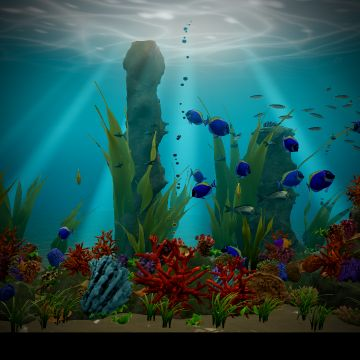
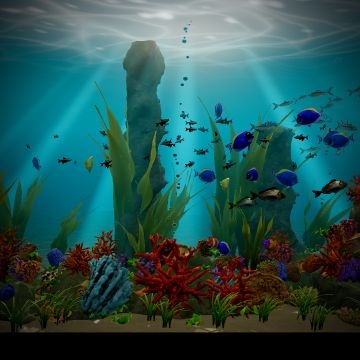
feat(swimming): clownfish dive into their anemone and live in it (I4)
The hover style takes `dive`: a fish with a home goes in among the
tentacles for `inSeconds`, `depthBodyLengths` below the top, turning
slowly to rub along them, then comes out to look around for
`outSeconds`; startled, it hides that deep. Over a host, the roam
shrinks with the square of the fish's size next to its kind (the swim
context's new `size`), so the larger of a pair keeps by the anemone.
The clownfish dive, and inspect and peck less (0.2 each), so living in
the anemone is what they mostly do. The tentacles hide them partly by
the depth test alone.

The Hero's baseline and pictures change: its clownfish now draw from the
shared random sequence differently, which moves every fish.

diff --git a/src/sim/behaviors/hover.ts b/src/sim/behaviors/hover.ts
@@ -23,16 +23,49 @@ export const NESTLE_BODY_LENGTHS = 0.3;
  * across or in height: drifting at hovering speed it could hardly climb or sink.
  */
 const COMMUTE_ROAMS = 2;
+/** Among the tentacles a fish turns this often, seconds, by up to this angle, radians… */
+const RUB_TURN_SECONDS: readonly [number, number] = [0.4, 1.2];
+const RUB_TURN_ANGLE = 1.4;
+/** …at this share of its hovering speed, never straying beyond this many body lengths. */
+const RUB_SPEED = 0.6;
+const RUB_REACH_BODY_LENGTHS = 0.6;
 const HOVERING = 0;
 const COMMUTING = 1;
+const DIVING = 2;
 
 type Params = SwimParams<"hover">;
 
-/** Where a fish keeping station over a host nestles down into it, written into `out`. */
-export function nestlePoint(state: SwimState, length: number, out: Vector3): Vector3 {
-  return out
-    .copy(state.home)
-    .setY(state.home.y - (ABOVE_HOST_BODY_LENGTHS + NESTLE_BODY_LENGTHS) * length);
+/** How far below its station a fish goes into its host, m: as deep as it dives, if it does. */
+function depthIntoHost(length: number, params?: Pick<Params, "dive">): number {
+  return (
+    (ABOVE_HOST_BODY_LENGTHS + (params?.dive?.depthBodyLengths ?? NESTLE_BODY_LENGTHS)) * length
+  );
+}
+
+/**
+ * Where a fish keeping station over a host hides in it, written into `out`:
+ * nestled into its top, or as deep as it dives when its style dives.
+ */
+export function nestlePoint(
+  state: SwimState,
+  length: number,
+  out: Vector3,
+  params?: Pick<Params, "dive">,
+): Vector3 {
+  return out.copy(state.home).setY(state.home.y - depthIntoHost(length, params));
+}
+
+/**
+ * How far a fish strays from its home before turning back, m. Over a host
+ * the larger fish of a pair keeps closer to it, as the female clownfish
+ * does: the roam shrinks with the square of its size next to its kind.
+ */
+export function hostRoam(
+  params: Pick<Params, "roamBodyLengths">,
+  length: number,
+  size: number,
+): number {
+  return (params.roamBodyLengths * length) / (size * size);
 }
 
 /** Settles over the nearest place tagged `home`, or where the fish is. */
@@ -55,6 +88,45 @@ function driftAroundHome(state: SwimState, context: SwimContext, roam: number): 
 }
 
 /**
+ * The dive of a fish into its host and out again; returns true while it is
+ * among the tentacles, where it has set its own wishes.
+ */
+function dive(
+  state: SwimState,
+  params: Params,
+  context: SwimContext,
+  deltaSeconds: number,
+): boolean {
+  const { dive: timing } = params;
+  if (timing === undefined) return false;
+  const { rng, position, length } = context;
+  state.heightTimer -= deltaSeconds;
+  if (state.phase !== DIVING) {
+    if (state.heightTimer > 0) return false;
+    state.phase = DIVING;
+    state.heightTimer = rng.range(timing.inSeconds[0], timing.inSeconds[1]);
+    state.height = state.home.y - depthIntoHost(length, params);
+    state.timer = 0;
+  } else if (state.heightTimer <= 0) {
+    // Out again to look around, just above the host.
+    state.phase = HOVERING;
+    state.heightTimer = rng.range(timing.outSeconds[0], timing.outSeconds[1]);
+    state.height = state.home.y;
+    return false;
+  }
+  state.speed = params.speed * RUB_SPEED;
+  state.timer -= deltaSeconds;
+  const away = Math.hypot(position.x - state.home.x, position.z - state.home.z);
+  if (away > length * RUB_REACH_BODY_LENGTHS) {
+    state.yaw = yawTowards(context, state.home.x, state.home.z);
+  } else if (state.timer <= 0) {
+    state.timer = rng.range(RUB_TURN_SECONDS[0], RUB_TURN_SECONDS[1]);
+    state.yaw += drawSide(context) * rng.range(SMALLEST_TURN, RUB_TURN_ANGLE);
+  }
+  return true;
+}
+
+/**
  * Keeps station: drifts slowly, turns on the spot, comes back when it strays.
  * With a `home` tag it keeps station over a place, like a clownfish over its
  * anemone.
@@ -72,7 +144,9 @@ export const hoverStyle: SwimStyle<"hover"> = {
   },
   step(state, params, context, deltaSeconds) {
     const { position, rng } = context;
-    const roam = params.roamBodyLengths * context.length;
+    const roam = state.anchored
+      ? hostRoam(params, context.length, context.size)
+      : params.roamBodyLengths * context.length;
     const away = Math.hypot(position.x - state.home.x, position.z - state.home.z);
     const offHeight = Math.abs(position.y - state.home.y);
     if (away > roam * COMMUTE_ROAMS || offHeight > roam * COMMUTE_ROAMS) {
@@ -91,6 +165,9 @@ export const hoverStyle: SwimStyle<"hover"> = {
       state.thrust = HOVER_THRUST;
       state.timer = 0;
     }
+    if (state.anchored && params.dive !== undefined && dive(state, params, context, deltaSeconds)) {
+      return;
+    }
     state.timer -= deltaSeconds;
     const homeward = yawTowards(context, state.home.x, state.home.z);
     // Out of its spot and still drifting away: turn back now.
@@ -104,6 +181,8 @@ export const hoverStyle: SwimStyle<"hover"> = {
           : state.yaw + drawSide(context) * rng.range(SMALLEST_TURN, params.turnAngle);
     }
     jitterYaw(state, context, HOVER_JITTER, deltaSeconds);
+    // A fish that dives keeps its height for the dives.
+    if (state.anchored && params.dive !== undefined) return;
     state.heightTimer -= deltaSeconds;
     if (state.heightTimer <= 0) {
       state.heightTimer = drawDuration(context, params.heightChangeSeconds);

diff --git a/src/sim/behaviors/hover.test.ts b/src/sim/behaviors/hover.test.ts
@@ -1,6 +1,7 @@
+import { Vector3 } from "three";
 import { describe, expect, it } from "vitest";
 import { collect, headingGap, startStyle } from "./harness";
-import { hoverStyle } from "./hover";
+import { hostRoam, hoverStyle, nestlePoint } from "./hover";
 
 describe("hover", () => {
   it("drifts far slower than cruise speed", () => {
@@ -134,5 +135,60 @@ describe("nestling", () => {
     const heights = collect(hosted, 60, (state) => state.height);
 
     expect(Math.min(...heights)).toBeLessThan(anemone.height);
+  });
+});
+
+describe("diving into the host", () => {
+  const anemone = { x: 0, z: -1, height: 0.2, tags: ["anemone"] };
+  const dive = {
+    inSeconds: [2, 2] as [number, number],
+    outSeconds: [2, 2] as [number, number],
+    depthBodyLengths: 0.6,
+  };
+
+  it("dives in among the tentacles of its host, below its top", () => {
+    const hosted = startStyle(hoverStyle, { home: "anemone", dive }, 1, [anemone]);
+
+    const heights = collect(hosted, 20, (state) => state.height);
+
+    expect(Math.min(...heights)).toBeLessThan(anemone.height - hosted.context.length * 0.3);
+  });
+
+  it("comes out again to keep station above its host", () => {
+    const hosted = startStyle(hoverStyle, { home: "anemone", dive }, 1, [anemone]);
+
+    const heights = collect(hosted, 20, (state) => state.height);
+
+    expect(Math.max(...heights)).toBeGreaterThan(anemone.height);
+  });
+
+  it("moves slowly while among the tentacles, rubbing along them", () => {
+    const hosted = startStyle(hoverStyle, { home: "anemone", dive }, 1, [anemone]);
+    const speeds: number[] = [];
+
+    hosted.run(20, (state) => {
+      if (state.height < anemone.height) speeds.push(state.speed);
+    });
+
+    expect(Math.max(...speeds)).toBeLessThanOrEqual(hosted.params.speed);
+  });
+
+  it("hides deep among the tentacles when startled", () => {
+    const hosted = startStyle(hoverStyle, { home: "anemone", dive }, 1, [anemone]);
+    const refuge = nestlePoint(hosted.state, hosted.context.length, new Vector3(), hosted.params);
+
+    expect(refuge.y).toBeLessThan(anemone.height - hosted.context.length * 0.3);
+  });
+});
+
+describe("hostRoam", () => {
+  it("keeps the larger fish of a pair closer to their host", () => {
+    const params = { roamBodyLengths: 1.5 };
+
+    expect(hostRoam(params, 0.1, 1.1)).toBeLessThan(hostRoam(params, 0.1, 0.9));
+  });
+
+  it("is the style's roam for a fish of the species' usual size", () => {
+    expect(hostRoam({ roamBodyLengths: 1.5 }, 0.1, 1)).toBeCloseTo(0.15);
   });
 });

diff --git a/src/sim/simulation.ts b/src/sim/simulation.ts
@@ -524,6 +524,7 @@ export function createSimulation(options: SimulationOptions): Simulation {
     velocity: new Vector3(),
     room: new Box3(),
     length: 0,
+    size: 1,
     cruise: 0,
     rng,
     places: createPlaceFinder(
@@ -540,6 +541,7 @@ export function createSimulation(options: SimulationOptions): Simulation {
     swimContext.velocity = member.velocity;
     swimContext.room = group.room;
     swimContext.length = member.length;
+    swimContext.size = member.length / group.species.length.mean;
     swimContext.cruise = group.species.speed.cruise;
     return swimContext;
   };
@@ -732,7 +734,12 @@ export function createSimulation(options: SimulationOptions): Simulation {
       return true;
     }
     if (member.swim.anchored) {
-      nestlePoint(member.swim, member.length, member.refuge);
+      nestlePoint(
+        member.swim,
+        member.length,
+        member.refuge,
+        group.species.swim.style === "hover" ? group.species.swim : undefined,
+      );
       member.refugeSize = 0;
       return true;
     }

diff --git a/src/scene/swimming.ts b/src/scene/swimming.ts
@@ -68,6 +68,20 @@ const hover = z.strictObject({
    * scene has none, the fish keeps station where it started.
    */
   home: tagSchema.optional(),
+  /**
+   * How a fish with a home dives into it, as a clownfish into its anemone:
+   * it stays among the tentacles for `inSeconds`, `depthBodyLengths` below
+   * the top, slowly turning to rub along them, then comes out to look
+   * around for `outSeconds`. Startled, it hides that deep. Without it, the
+   * fish keeps station above its home and only nestles now and then.
+   */
+  dive: z
+    .strictObject({
+      inSeconds: seconds(4, 10),
+      outSeconds: seconds(3, 8),
+      depthBodyLengths: positive.default(0.6),
+    })
+    .optional(),
 });
 
 /** Slow and graceful: wide figure eights while rising and sinking. Angelfish, idols. */

diff --git a/src/sim/behaviors/harness.ts b/src/sim/behaviors/harness.ts
@@ -45,6 +45,7 @@ export function startStyle<Id extends SwimStyleId>(
     velocity: new Vector3(CRUISE, 0, 0),
     room: new Box3(new Vector3(-2, 0, -2), new Vector3(2, 2, 0)),
     length: BODY_LENGTH,
+    size: 1,
     cruise: CRUISE,
     rng: createRng(seed),
     places: createPlaceFinder(
@@ -115,6 +116,7 @@ export function startActivity<Id extends ActivityId>(
     velocity: new Vector3(CRUISE, 0, 0),
     room: new Box3(new Vector3(-2, 0, -2), new Vector3(2, 2, 0)),
     length: BODY_LENGTH,
+    size: 1,
     cruise: CRUISE,
     rng: createRng(seed),
     places: createPlaceFinder(

diff --git a/src/sim/behaviors/types.ts b/src/sim/behaviors/types.ts
@@ -65,6 +65,8 @@ export interface SwimContext {
   readonly room: Box3;
   /** Body length of the individual, m. */
   readonly length: number;
+  /** How big it is next to its kind: its length over the species' mean length. */
+  readonly size: number;
   /** Cruise speed of its species, m/s: what a `speed` of 1 means. */
   readonly cruise: number;
   readonly rng: Rng;

diff --git a/src/sim/behaviors/choose.test.ts b/src/sim/behaviors/choose.test.ts
@@ -14,6 +14,7 @@ function contextAmong(places: readonly Place[], seed = 1): SwimContext {
     position: new Vector3(0, 1, -1),
     room: new Box3(new Vector3(-2, 0, -2), new Vector3(2, 2, 0)),
     length: 0.2,
+    size: 1,
     velocity: new Vector3(0.4, 0, 0),
     cruise: 0.4,
     rng: createRng(seed),

diff --git a/docs/ROADMAP.md b/docs/ROADMAP.md
@@ -407,13 +407,15 @@ tuned against reference photographs, with every parameter a slider.
 
 ### I4. Clownfish living in their anemone
 
-- [ ] A host fish dips into its anemone, rubs along the tentacles and
+- [x] A host fish dips into its anemone, rubs along the tentacles and
       comes out a little way to look around, then goes back (the `hover`
-      style around its home, with a dive into it).
-- [ ] A pair shares an anemone, the larger one keeping close to it;
-      startled, they hide deep among the tentacles.
-- [ ] Drawn among the tentacles, partly hidden by them, without popping
-      in front or behind.
+      style around its home, with a dive into it: `dive`).
+- [x] A pair shares an anemone, the larger one keeping close to it;
+      startled, they hide deep among the tentacles (`hostRoam`, the
+      swim context's `size`).
+- [x] Drawn among the tentacles, partly hidden by them, without popping
+      in front or behind: the depth test already does it, the tentacles
+      being opaque; checked in the nano reef.
 
 ### I5. The aquariums
 

diff --git a/docs/NUOTO.md b/docs/NUOTO.md
@@ -90,6 +90,27 @@ cominciato.
 | `roamBodyLengths`     | 4        | Quanto si allontana prima di tornare |
 | `heightChangeSeconds` | 10       | Ogni quanto cambia un po' altezza    |
 | `home`                | nessuno  | Etichetta del posto sopra cui stare  |
+| `dive`                | nessuno  | Ogni tanto si tuffa nella sua casa   |
+
+Con `dive`, un pesce con una casa ci entra, come un pesce pagliaccio nel
+suo anemone: resta tra i tentacoli per `inSeconds`, `depthBodyLengths`
+(0.6) sotto la cima, girandosi piano per strofinarcisi, poi esce a
+guardarsi intorno per `outSeconds`. Spaventato, si nasconde così a fondo.
+Il pesce pagliaccio:
+
+```json
+"swim": {
+  "style": "hover",
+  "speed": 0.3,
+  "roamBodyLengths": 1.5,
+  "home": "anemone",
+  "dive": { "inSeconds": [5, 12], "outSeconds": [3, 8] }
+}
+```
+
+Sopra la sua casa, un pesce più grande dei suoi simili le sta più vicino:
+il più grande della coppia resta accanto all'anemone, il più piccolo si
+allontana di più.
 
 ### `glide`: otto lenti
 

diff --git a/docs/SWIMMING.md b/docs/SWIMMING.md
@@ -87,6 +87,25 @@ the scene has no anemone, it stays where it started.
 | `roamBodyLengths`     | 4        | How far it strays before going back   |
 | `heightChangeSeconds` | 10       | How often its height changes a little |
 | `home`                | none     | Tag of the place to stay over         |
+| `dive`                | none     | Dives into its home now and then      |
+
+With `dive`, a fish with a home goes into it, as a clownfish into its
+anemone: it stays among the tentacles for `inSeconds`, `depthBodyLengths`
+(0.6) below the top, turning slowly to rub along them, then comes out to
+look around for `outSeconds`. Startled, it hides that deep. The clownfish:
+
+```json
+"swim": {
+  "style": "hover",
+  "speed": 0.3,
+  "roamBodyLengths": 1.5,
+  "home": "anemone",
+  "dive": { "inSeconds": [5, 12], "outSeconds": [3, 8] }
+}
+```
+
+Over a host, a fish larger than its kind keeps closer to it: the larger of
+a pair stays by the anemone, the smaller strays further.
 
 ### `glide`: slow figure eights
 
